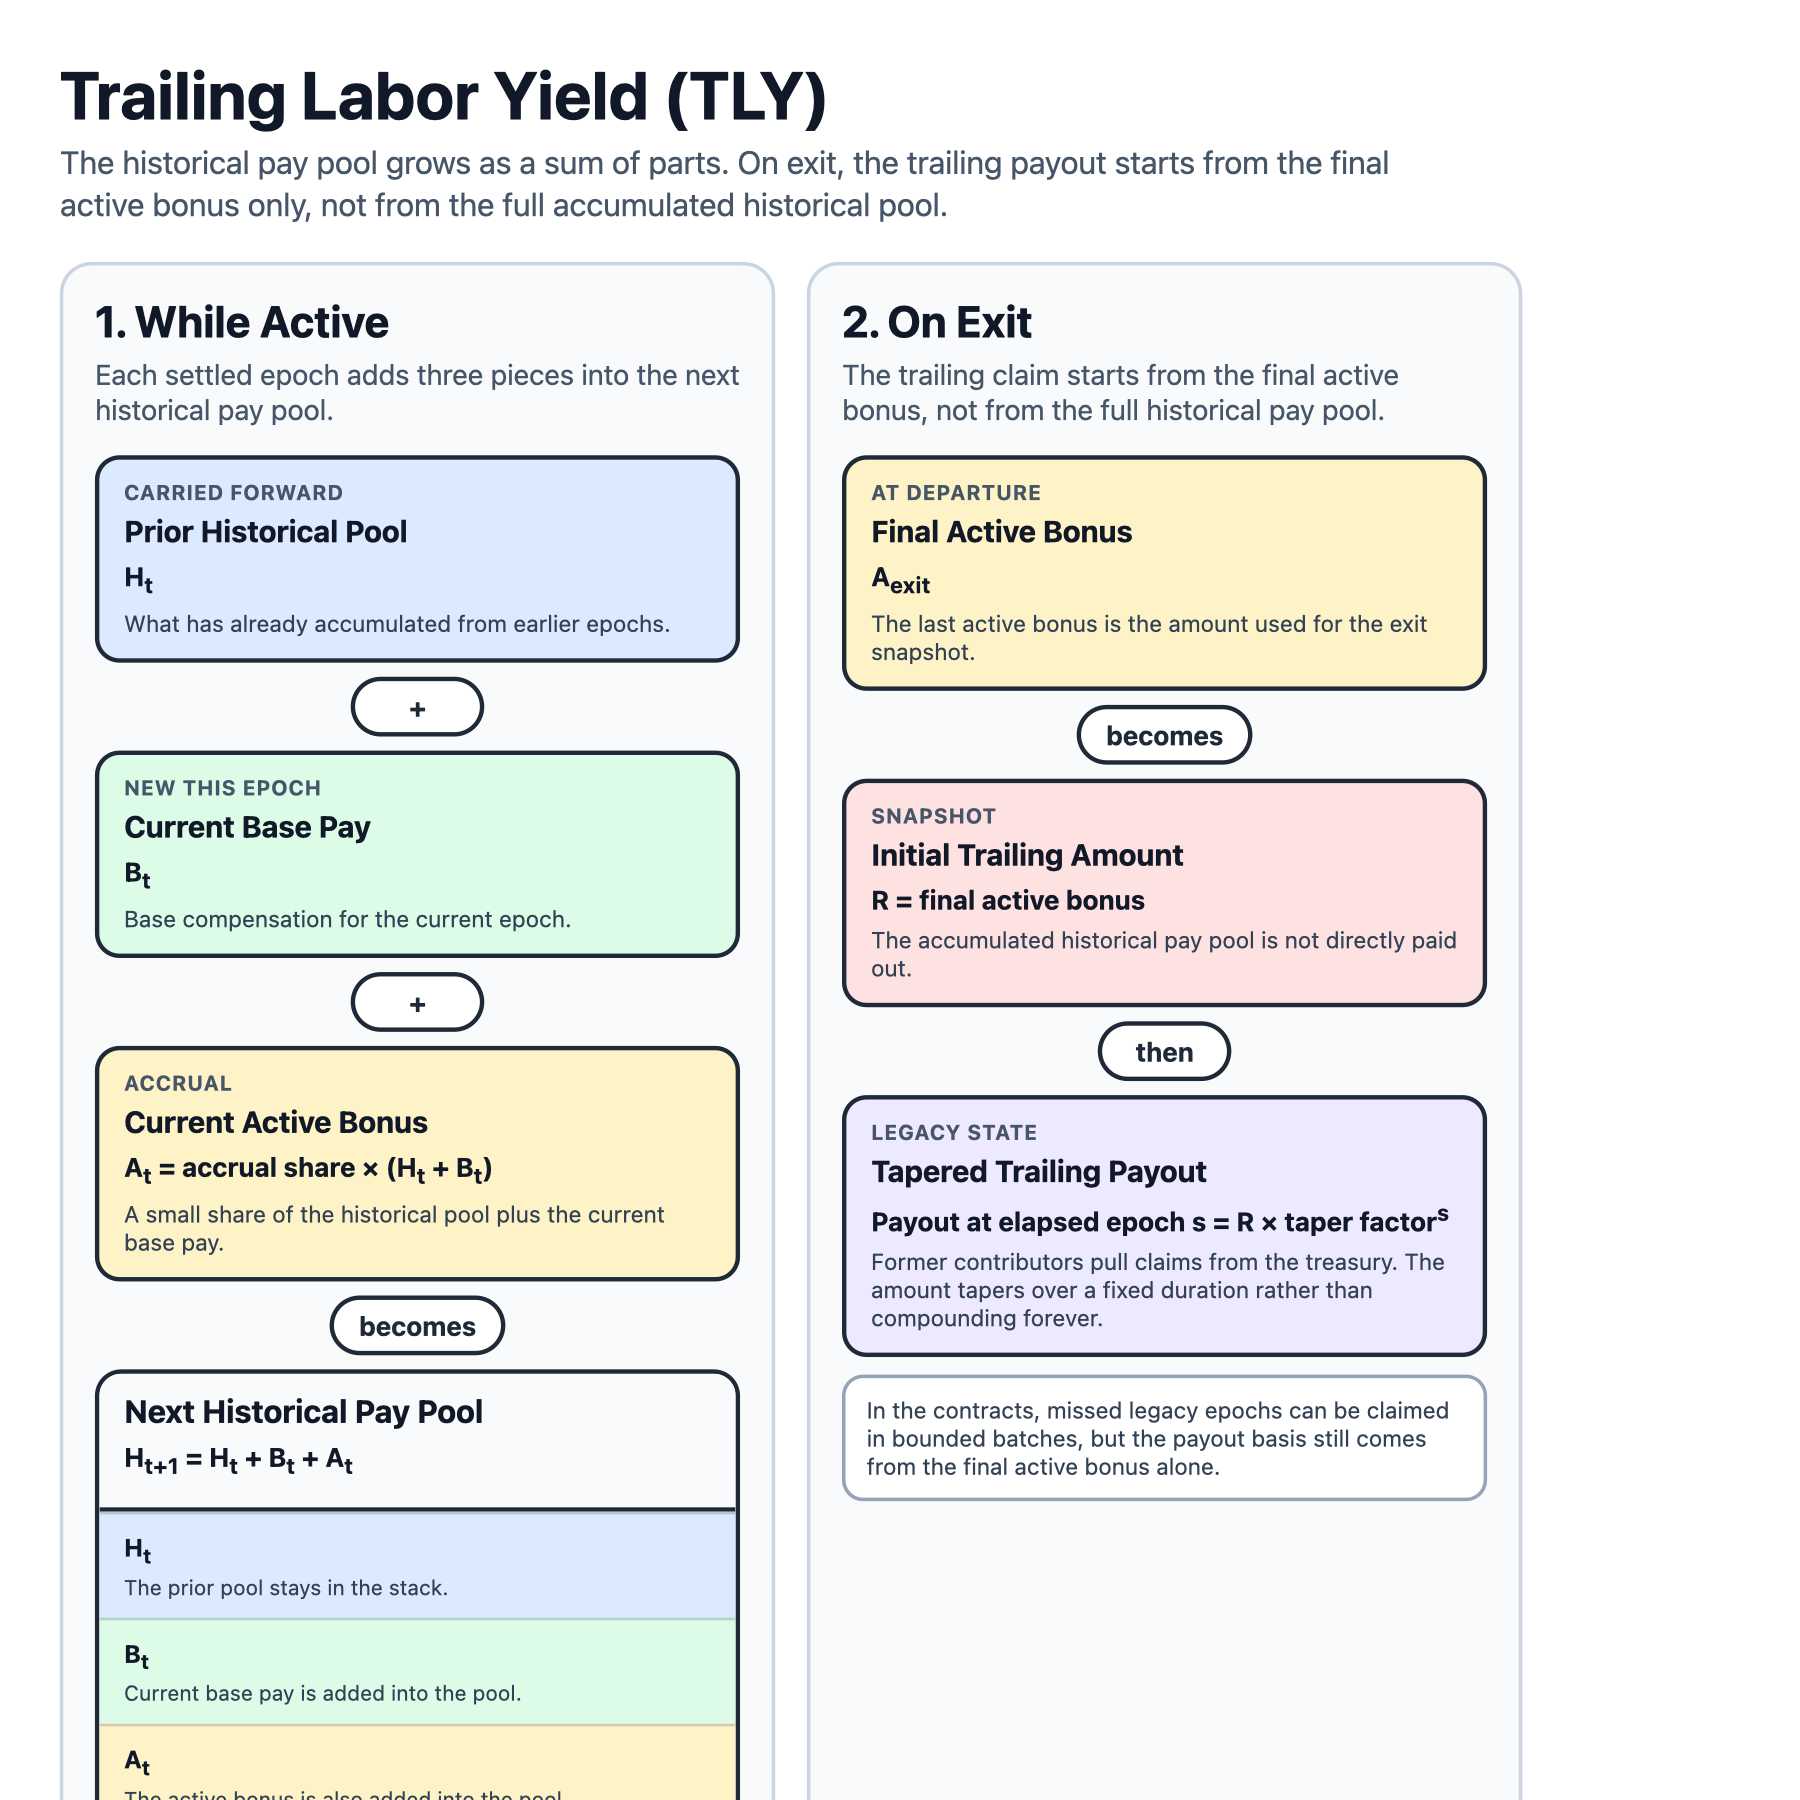
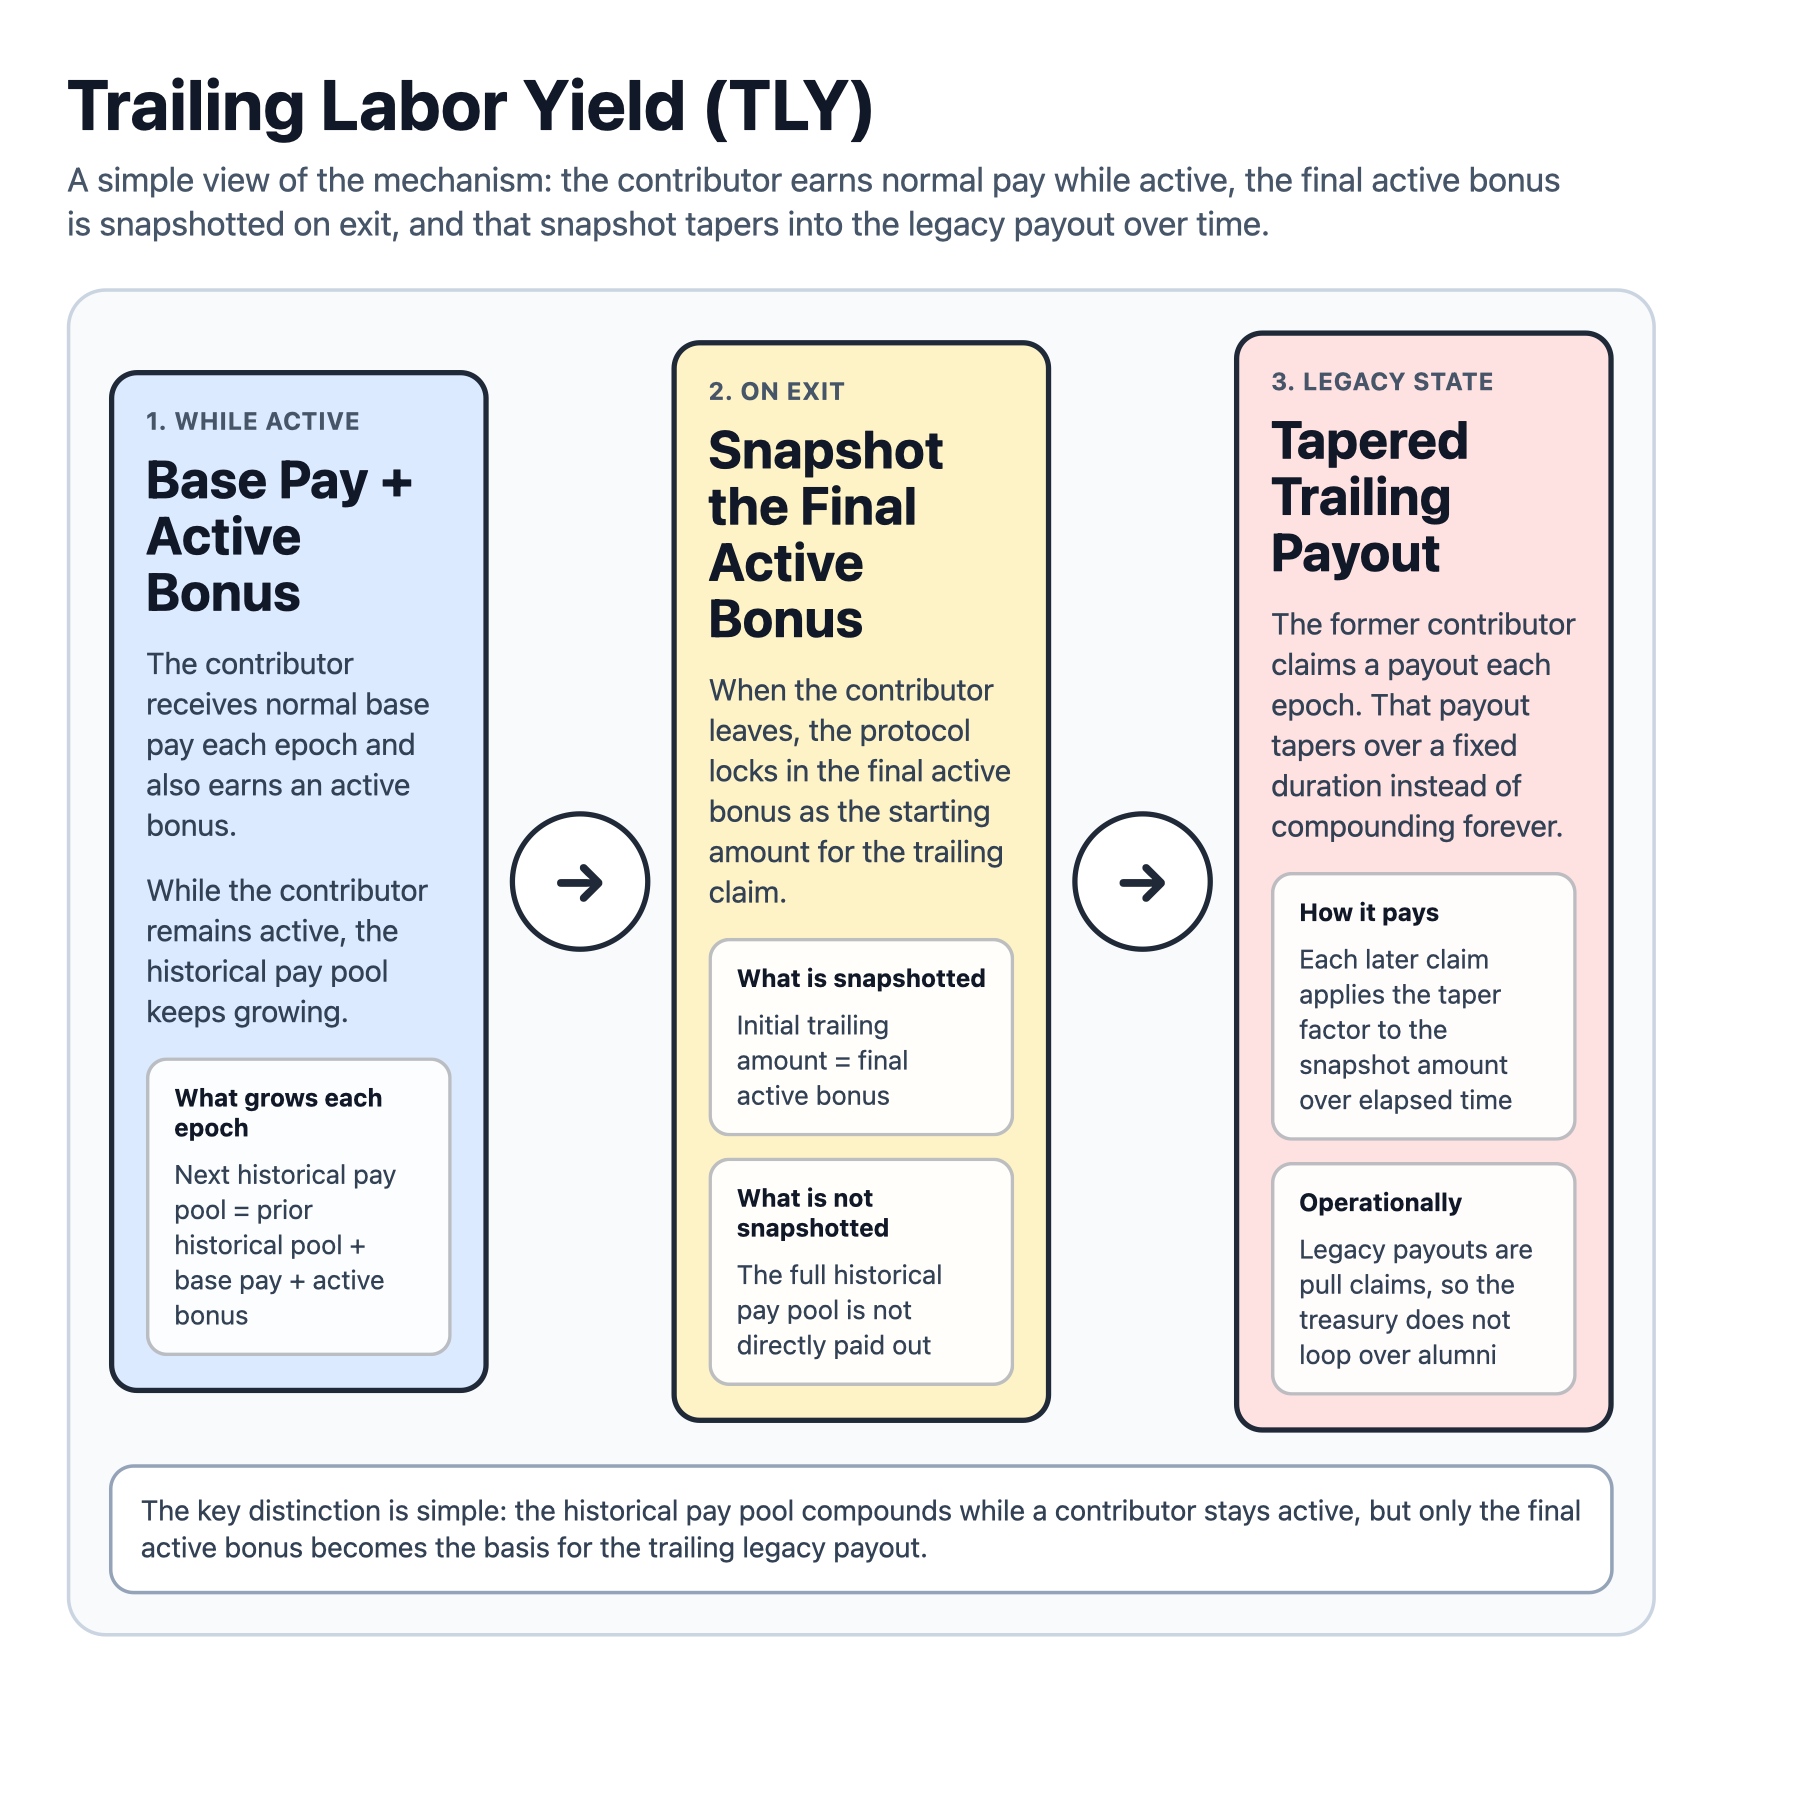
New figure

diff --git a/paper/figures/tly_mechanism_diagram_source.html b/paper/figures/tly_mechanism_diagram_source.html
@@ -11,10 +11,8 @@
       --line: #1f2937;
       --panel: #f8fafc;
       --blue: #dbeafe;
-      --green: #dcfce7;
       --yellow: #fef3c7;
       --rose: #fee2e2;
-      --purple: #ede9fe;
       --white: #ffffff;
     }
 
@@ -28,165 +26,122 @@
     }
 
     .canvas {
-      width: 900px;
-      min-height: 900px;
-      padding: 34px;
+      width: 980px;
+      min-height: 760px;
+      padding: 38px;
       background: #ffffff;
     }
 
     h1 {
-      margin: 0 0 8px;
-      font-size: 38px;
+      margin: 0 0 10px;
+      font-size: 40px;
       line-height: 1.05;
     }
 
     .subtitle {
-      margin: 0 0 20px;
+      margin: 0 0 24px;
       color: var(--muted);
-      font-size: 18px;
+      font-size: 19px;
       line-height: 1.35;
-      max-width: 800px;
+      max-width: 860px;
     }
 
-    .grid {
-      display: grid;
-      grid-template-columns: 1fr 1fr;
-      gap: 18px;
-    }
-
-    .panel {
-      background: var(--panel);
+    .frame {
       border: 2px solid #cbd5e1;
-      border-radius: 18px;
-      padding: 18px;
-      min-height: 720px;
+      border-radius: 22px;
+      background: var(--panel);
+      padding: 22px;
     }
 
-    .panel h2 {
-      margin: 0 0 6px;
-      font-size: 25px;
-      line-height: 1.12;
-    }
-
-    .panel > p {
-      margin: 0;
-      color: var(--muted);
-      font-size: 16px;
-      line-height: 1.3;
-    }
-
-    .stack-col {
-      display: flex;
-      flex-direction: column;
-      align-items: stretch;
-      gap: 8px;
-      margin-top: 16px;
+    .flow {
+      display: grid;
+      grid-template-columns: 1fr 80px 1fr 80px 1fr;
+      align-items: center;
+      gap: 12px;
     }
 
     .card {
-      border: 2.5px solid var(--line);
-      border-radius: 14px;
+      border: 3px solid var(--line);
+      border-radius: 16px;
       background: var(--white);
-      padding: 12px 14px;
+      padding: 18px;
+      min-height: 360px;
+      display: flex;
+      flex-direction: column;
     }
 
     .card.blue { background: var(--blue); }
-    .card.green { background: var(--green); }
     .card.yellow { background: var(--yellow); }
     .card.rose { background: var(--rose); }
-    .card.purple { background: var(--purple); }
 
-    .eyebrow {
-      font-size: 12px;
+    .stage {
+      font-size: 14px;
       line-height: 1.1;
       color: var(--muted);
-      margin-bottom: 7px;
+      margin-bottom: 10px;
       font-weight: 700;
       text-transform: uppercase;
       letter-spacing: 0.03em;
     }
 
-    .label {
+    .title {
+      font-size: 30px;
+      line-height: 1.08;
+      font-weight: 700;
+      margin-bottom: 14px;
+    }
+
+    .body {
       font-size: 17px;
-      line-height: 1.12;
-      font-weight: 700;
-      margin-bottom: 6px;
+      line-height: 1.4;
+      color: #334155;
+      margin-bottom: 14px;
     }
 
-    .formula {
+    .mini {
+      margin-top: auto;
+      border: 2px solid rgba(17, 24, 39, 0.28);
+      border-radius: 12px;
+      background: rgba(255,255,255,0.9);
+      padding: 12px 14px;
+    }
+
+    .mini-title {
+      font-size: 14px;
+      font-weight: 700;
+      margin-bottom: 8px;
+      color: var(--ink);
+    }
+
+    .mini-line {
       font-size: 15px;
-      line-height: 1.25;
-      font-weight: 700;
-      margin-bottom: 6px;
-    }
-
-    .detail {
-      font-size: 13px;
-      line-height: 1.3;
+      line-height: 1.35;
       color: #334155;
     }
 
-    .chip {
-      align-self: center;
-      min-width: 76px;
-      height: 34px;
-      padding: 0 14px;
-      border: 2.5px solid var(--line);
+    .arrow {
+      width: 80px;
+      height: 80px;
       border-radius: 999px;
+      border: 3px solid var(--line);
       background: #ffffff;
       display: flex;
       align-items: center;
       justify-content: center;
-      font-size: 15px;
+      font-size: 34px;
       font-weight: 700;
       color: var(--line);
+      margin: 0 auto;
     }
 
-    .sum-box {
-      border: 2.5px solid var(--line);
-      border-radius: 15px;
-      background: #ffffff;
-      overflow: hidden;
-    }
-
-    .sum-head {
-      padding: 12px 14px 10px;
-      border-bottom: 2.5px solid var(--line);
-      background: #f8fafc;
-    }
-
-    .sum-head .label {
-      margin: 0 0 6px;
-      font-size: 18px;
-    }
-
-    .segment {
-      padding: 10px 14px;
-      border-top: 1.5px solid rgba(17, 24, 39, 0.18);
-    }
-
-    .segment:first-of-type { border-top: 0; }
-
-    .segment-title {
-      font-size: 14px;
-      font-weight: 700;
-      margin-bottom: 4px;
-    }
-
-    .segment-note {
-      font-size: 12px;
-      line-height: 1.3;
-      color: #334155;
-    }
-
-    .note {
-      margin-top: 10px;
-      padding: 10px 12px;
-      background: #ffffff;
+    .footer {
+      margin-top: 18px;
+      padding: 14px 16px;
       border: 2px solid #94a3b8;
-      border-radius: 12px;
-      font-size: 13px;
-      line-height: 1.3;
+      border-radius: 14px;
+      background: #ffffff;
+      font-size: 16px;
+      line-height: 1.35;
       color: #334155;
     }
   </style>
@@ -195,99 +150,66 @@
   <div class="canvas">
     <h1>Trailing Labor Yield (TLY)</h1>
     <p class="subtitle">
-      The historical pay pool grows as a sum of parts. On exit, the trailing payout starts from the final active bonus only, not from the full accumulated historical pool.
+      A simple view of the mechanism: the contributor earns normal pay while active, the final active bonus is snapshotted on exit, and that snapshot tapers into the legacy payout over time.
     </p>
 
-    <div class="grid">
-      <section class="panel">
-        <h2>1. While Active</h2>
-        <p>Each settled epoch adds three pieces into the next historical pay pool.</p>
-
-        <div class="stack-col">
-          <div class="card blue">
-            <div class="eyebrow">Carried Forward</div>
-            <div class="label">Prior Historical Pool</div>
-            <div class="formula">H<sub>t</sub></div>
-            <div class="detail">What has already accumulated from earlier epochs.</div>
+    <div class="frame">
+      <div class="flow">
+        <div class="card blue">
+          <div class="stage">1. While Active</div>
+          <div class="title">Base Pay + Active Bonus</div>
+          <div class="body">
+            The contributor receives normal base pay each epoch and also earns an active bonus.
           </div>
-
-          <div class="chip">+</div>
-
-          <div class="card green">
-            <div class="eyebrow">New This Epoch</div>
-            <div class="label">Current Base Pay</div>
-            <div class="formula">B<sub>t</sub></div>
-            <div class="detail">Base compensation for the current epoch.</div>
+          <div class="body">
+            While the contributor remains active, the historical pay pool keeps growing.
           </div>
-
-          <div class="chip">+</div>
-
-          <div class="card yellow">
-            <div class="eyebrow">Accrual</div>
-            <div class="label">Current Active Bonus</div>
-            <div class="formula">A<sub>t</sub> = accrual share × (H<sub>t</sub> + B<sub>t</sub>)</div>
-            <div class="detail">A small share of the historical pool plus the current base pay.</div>
-          </div>
-
-          <div class="chip">becomes</div>
-
-          <div class="sum-box">
-            <div class="sum-head">
-              <div class="label">Next Historical Pay Pool</div>
-              <div class="formula">H<sub>t+1</sub> = H<sub>t</sub> + B<sub>t</sub> + A<sub>t</sub></div>
-            </div>
-            <div class="segment" style="background:#dbeafe">
-              <div class="segment-title">H<sub>t</sub></div>
-              <div class="segment-note">The prior pool stays in the stack.</div>
-            </div>
-            <div class="segment" style="background:#dcfce7">
-              <div class="segment-title">B<sub>t</sub></div>
-              <div class="segment-note">Current base pay is added into the pool.</div>
-            </div>
-            <div class="segment" style="background:#fef3c7">
-              <div class="segment-title">A<sub>t</sub></div>
-              <div class="segment-note">The active bonus is also added into the pool.</div>
-            </div>
+          <div class="mini">
+            <div class="mini-title">What grows each epoch</div>
+            <div class="mini-line">Next historical pay pool = prior historical pool + base pay + active bonus</div>
           </div>
         </div>
 
-      </section>
+        <div class="arrow">→</div>
 
-      <section class="panel">
-        <h2>2. On Exit</h2>
-        <p>The trailing claim starts from the final active bonus, not from the full historical pay pool.</p>
-
-        <div class="stack-col">
-          <div class="card yellow">
-            <div class="eyebrow">At Departure</div>
-            <div class="label">Final Active Bonus</div>
-            <div class="formula">A<sub>exit</sub></div>
-            <div class="detail">The last active bonus is the amount used for the exit snapshot.</div>
+        <div class="card yellow">
+          <div class="stage">2. On Exit</div>
+          <div class="title">Snapshot the Final Active Bonus</div>
+          <div class="body">
+            When the contributor leaves, the protocol locks in the final active bonus as the starting amount for the trailing claim.
           </div>
-
-          <div class="chip">becomes</div>
-
-          <div class="card rose">
-            <div class="eyebrow">Snapshot</div>
-            <div class="label">Initial Trailing Amount</div>
-            <div class="formula">R = final active bonus</div>
-            <div class="detail">The accumulated historical pay pool is not directly paid out.</div>
+          <div class="mini">
+            <div class="mini-title">What is snapshotted</div>
+            <div class="mini-line">Initial trailing amount = final active bonus</div>
           </div>
-
-          <div class="chip">then</div>
-
-          <div class="card purple">
-            <div class="eyebrow">Legacy State</div>
-            <div class="label">Tapered Trailing Payout</div>
-            <div class="formula">Payout at elapsed epoch s = R × taper factor<sup>s</sup></div>
-            <div class="detail">Former contributors pull claims from the treasury. The amount tapers over a fixed duration rather than compounding forever.</div>
+          <div class="mini" style="margin-top:12px;">
+            <div class="mini-title">What is not snapshotted</div>
+            <div class="mini-line">The full historical pay pool is not directly paid out</div>
           </div>
         </div>
 
-        <div class="note">
-          In the contracts, missed legacy epochs can be claimed in bounded batches, but the payout basis still comes from the final active bonus alone.
+        <div class="arrow">→</div>
+
+        <div class="card rose">
+          <div class="stage">3. Legacy State</div>
+          <div class="title">Tapered Trailing Payout</div>
+          <div class="body">
+            The former contributor claims a payout each epoch. That payout tapers over a fixed duration instead of compounding forever.
+          </div>
+          <div class="mini">
+            <div class="mini-title">How it pays</div>
+            <div class="mini-line">Each later claim applies the taper factor to the snapshot amount over elapsed time</div>
+          </div>
+          <div class="mini" style="margin-top:12px;">
+            <div class="mini-title">Operationally</div>
+            <div class="mini-line">Legacy payouts are pull claims, so the treasury does not loop over alumni</div>
+          </div>
         </div>
-      </section>
+      </div>
+
+      <div class="footer">
+        The key distinction is simple: the historical pay pool compounds while a contributor stays active, but only the final active bonus becomes the basis for the trailing legacy payout.
+      </div>
     </div>
   </div>
 </body>
